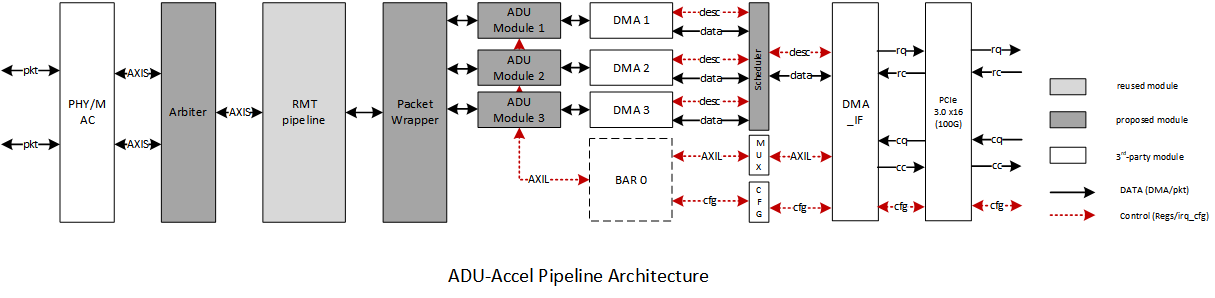
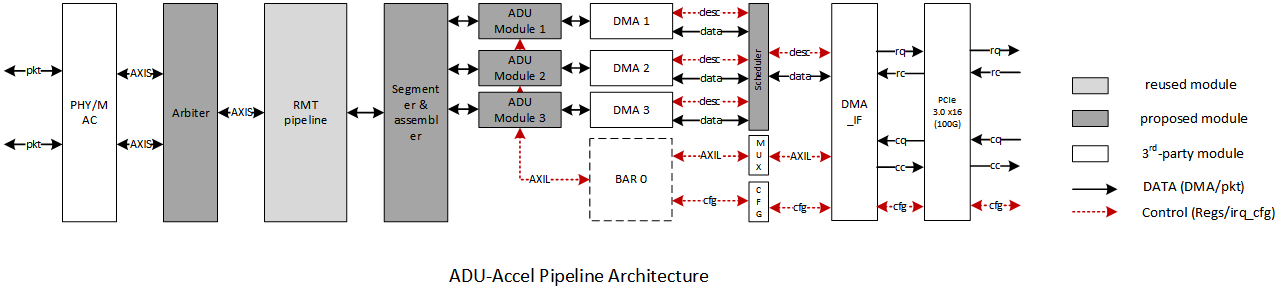
initalial

diff --git a/Design Note.md b/Design Note.md
@@ -1,10 +1,10 @@
 ## Design Note 
 
-According to [1], the most efficient way of processing data would be to push as many operations as possible to the data if its currently in the cache or registers. Which means the layered design doesn't make a lot of sense if there are lots of manipulations to the data from application layer all the way down to the network layer. 
+As pointed out by Google in 2015, 22%-27% CPU cycles in its data centers are spent in presentation layer operations [3] (compression/decompression, rpc, etc.). As a result, offloading the presentation layer onto programmable NICs is a promising way to save CPU cycles for applications.
 
 > This requires re-design to both API (to replace socket) and the NIC.
 
-the design of ADU should be an End-to-End design:
+The architecture should be an End-to-End design:
 
 1. application pushes ADU (i.e. DMA address of the ADU) to the NIC;
 
@@ -16,7 +16,7 @@ the design of ADU should be an End-to-End design:
 
       > or at least the sender and receiver should have high-level agreement on where/when the ADU should be put.
 
-2. NIC is responsible for the ADU to packet conversion and visa verse.
+2. NIC is responsible for the ADU <--> packet conversion and visa verse.
 
 **The ADU-packet conversions must be driven by application knowledge.**
 
@@ -44,7 +44,7 @@ Two experiments showing the proportion of CPU cycles on the ADU generation (pre-
 2. word aligned copy from R2000 integer to ASN.1;
    1.  aligned copy to ASN.1 and word aligned.
 
-### Expecting Performance Bottlenecks
+### Expected Performance Bottlenecks
 
 	1. manipulations to the data (conversion, compress, encryption);
 	2. random memory access (JAVA objection serialization, file transfer)
@@ -66,13 +66,13 @@ As suggested in [1], the definition of ADU (contents, length) is based on applic
 
 According to the table above, the size of ADU should range from several types to several hundreds of MB. 
 
-**E2E Data Execution Path**: For each type of application:
+**E2E Data Execution Path**: For each application:
 
-1. on the sender side, the CPU should push the pointer which points to the physical address of the data (can be DMAed) to the NIC together with the metadata (how the ADU should be pre-processed);
+1. on the sender side, the CPU should push the descriptor which points to the physical address of the data (can be DMAed) to the NIC together with the metadata (ADU_ID, ADU length);
 2. The specific ADU-module pulls the ADU from DMA and execute the TX ops (encryption, compress, serialization, etc.);
-3. (ADUs are converted into packets and transferred in the network)
+3. ADUs are converted into packets and transferred in the network
 4. On the receiver side, the RX ops (decryption, vectorization, decompression) that a specific ADU-module should execute are registered right after the application started up;
-5. After the the packet is dispatched from RMT pipeline, the ADU-module obtains packets and re-construct the ADU. Then execute the operations registered before. 
+5. After the the packet is dispatched from RMT pipeline, the ADU-module obtains packets and re-construct the ADU. Then execute the operations registered before.
 
 ### Hardware Design
 
@@ -82,13 +82,13 @@ According to the table above, the size of ADU should range from several types to
 
 ![DMA_design](fig/DMA.png)
 
-The overall design is shown as the figure above. The left side is connected with qsfp28 network ports while the right side is connected with the host using PCIe (PCIe3.0 x16).
+The overall design is shown as the figure above. The left side is connected with network interfaces (qsfp28 ports) while the right side is connected with the host using PCIe (PCIe3.0 x16).  
 
 ##### 1. DMA design
 
 ![dma_part](fig/dma_part.png)
 
-The multi-queue DMA in the design is adopted from the DMA engine in [corundum](https://github.com/Winters123/verilog-pcie) as it can be easily extended to support high-speed multi-channels for ADU modules.
+The multi-queue DMA in the design is adopted from the DMA engine in [corundum](https://github.com/Winters123/verilog-pcie) as it can be extended to support high-speed multi-channels for ADU modules.
 
 The DMA system can be divided into **Data Channel** (RQ & RC) and **Configure Channel** (CQ & CC). Data Channel is responsible for ADU transferring between NIC and the host memory, while configure channel is used to expose the BAR0 configuration space to the host.
 
@@ -104,7 +104,7 @@ P.S. _The dispatch module will be implemented as the DMA engine on the NIC._
 
 On the TX path:
 
-1. After the driver is initialized by the host, the DMA-able buffer space on the memory is waiting to be filled by the application;
+1. After the driver is initialized, the DMA-able buffer space on the memory is waiting to be filled by the application;
 2. The application writes ADU to the buffer space. Once its done, the CPU writes the descriptor to BAR 0 exposed by PCIe configure channel (CQ interface);
 3. The MUX module (middle of the figure) directs the descriptor to the correct DMA module according to the `ADU_ID` carried in it;
 4. the DMA module issues a DMA read according to the descriptor and push the ADU data to the ADU module for further process. 
@@ -120,19 +120,19 @@ On the RX path:
 
 ##### 2. Scheduler
 
-Scheduler is connected with ADU modules with the DMA interface using a flexible crossbar (with a simplified switch table). On the TX path, Scheduler is responsible for scheduling ADUs to different ADU modules. On the other hand, Scheduler is implemented as a typical **N to 1** scheduler to push ADUs back to the host. 
+Scheduler is connected with ADU modules with the DMA interface using a flexible crossbar (with a simplified switch table). On the TX path, Scheduler is responsible for scheduling ADUs to different ADU modules. On the opposed direction, Scheduler is implemented as a typical **N to 1** scheduler to push ADUs back to the host. 
 
 ##### 3. ADU Modules
 
-ADU module is the core module on the NIC. Its responsible for executing the presentation layer operations (compression/decompression, etc.).
+ADU module is the core functional module on the NIC. Its responsible for executing the presentation layer operations (compression/decompression, etc.).
 
-##### 4. Packet Wrapper
+##### 4. Segmenter & Assembler
 
-Packet Wrapper is for the conversion between 'packet' and 'ADU'. On the RX path, it extracts the payload from the packet and reformats the ADU for further processing in the ADU module; On the TX path, it adds packet header to the ADU data and push the packets to the RMT pipeline.
+Segmenter & Assembler is for the conversion between 'packet' and 'ADU'. On the RX path, it extracts the payload from the packet and reformats the ADU for further processing in the ADU module; On the TX path, it adds packet header to the ADU data and push the packets to the RMT pipeline.
 
-> For ADUs larger than MTU, the ADU may be split into several packets according to the size of MTU. For ADUs smaller than the MTU, several ADUs can be packed to one packet to make the better use of bandwidth. 
+> For ADUs larger than MTU, the ADU may be segmented into several packets according to the size of MTU. For ADUs smaller than the MTU, several ADUs can be assembled to one packet to make the better use of bandwidth. 
 
-On the RX path, the RMT pipeline helps to determine which ADU_ID it belongs to. Thus, the packet wrapper only needs to extract the payload out of the packet based on the length of the header. On the TX path, the packet wrapper also need to add a **fake header** to the ADU based on the length of the header. And the correct header can be attached to it in the RMT pipeline.
+On the RX path, the RMT pipeline helps to determine which ADU_ID it belongs to. Thus, the Segmenter only needs to extract the payload out of the packet based on the length of the header. On the TX path, the Assembler also need to add a **fake header** to the ADU based on the length of the header. And the correct header can be attached to it in the RMT pipeline.
 
 A key data structure here is a **mapping table** to attach/detach packet headers to ADUs. The table should contain the mapping relation between **ADU_ID** and **Header_Length**.
 
@@ -216,6 +216,8 @@ since the NIC hasn't to be fully implemented using FPGA, partial reconfiguration
 [1] Architectural Considerations for a New Generation of Protocols.
 
 [2] A Specialized Architecture for Object Serialization with Applications to Big Data Analytics.
+
+[3] Profiling a warehouse-scale computer.
 
 
 
